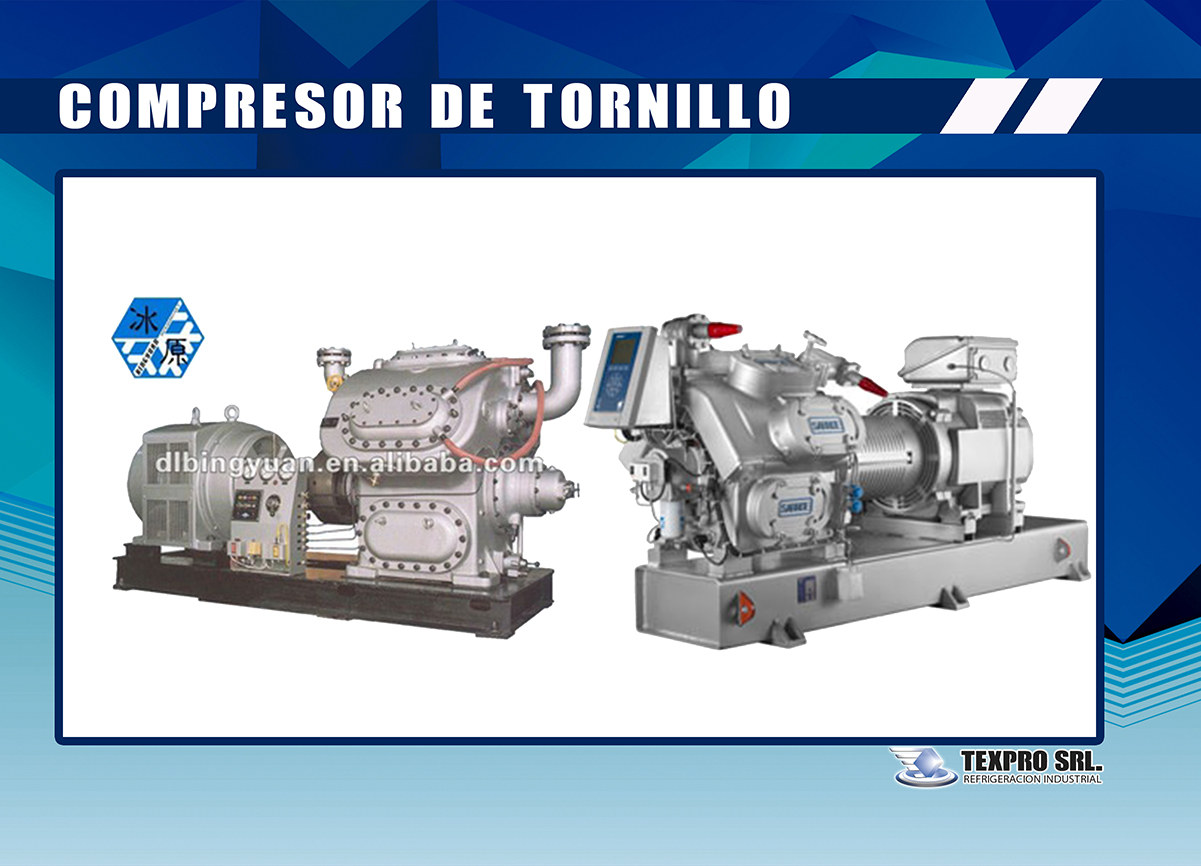
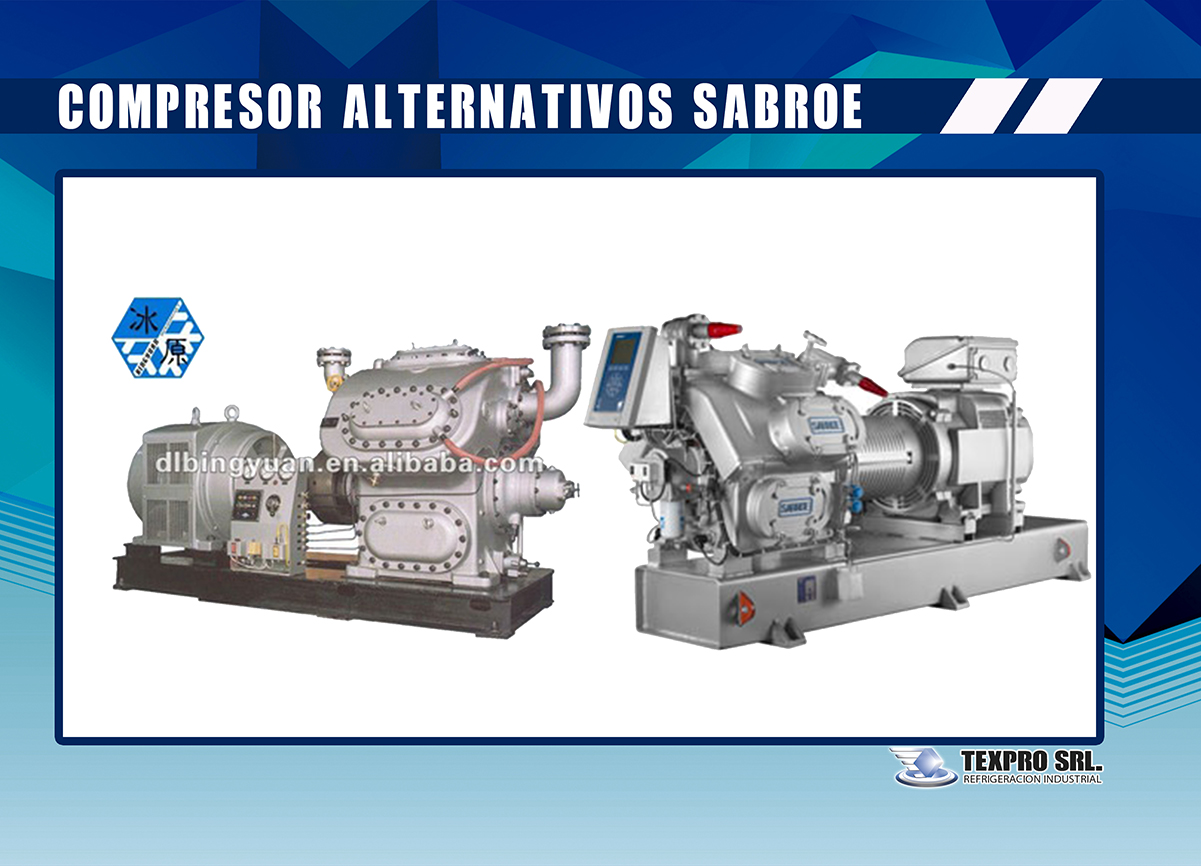
correccion de nombre

Changed region(s): [[0.0308, 0.0935, 0.7394, 0.1559]]

diff --git a/mobile/javascript/config.js b/mobile/javascript/config.js
@@ -136,7 +136,7 @@ btnTableOfContent:["btnBookMark"]
 };
 	
 	
-	;bookConfig.BookTemplateName="metro";bookConfig.loadingCaptionColor="#DDDDDD";bookConfig.loadingBackground="#1F2232";bookConfig.appLogoIcon="files/mobile-ext/appLogoIcon.png";bookConfig.appLogoOpenWindow="Blank";bookConfig.logoHeight="40";bookConfig.logoPadding="0";bookConfig.logoTop="0";bookConfig.toolbarColor="#000000";bookConfig.iconColor="#ECF5FB";bookConfig.pageNumColor="#000000";bookConfig.iconFontColor="#C6C6C6";bookConfig.toolbarAlwaysShow="No";bookConfig.formFontColor="#FFFFFF";bookConfig.formBackgroundColor="#27181A";bookConfig.ToolBarAlpha="1";bookConfig.CurlingPageCorner="Yes";bookConfig.showBookInstructionOnStart="false";bookConfig.InstructionsButtonVisible="Show";bookConfig.showInstructionOnStart="No";bookConfig.showGotoButtonsAtFirst="No";bookConfig.QRCode="Hide";bookConfig.HomeButtonVisible="Hide";bookConfig.HomeURL="%first page%";bookConfig.aboutButtonVisible="Hide";bookConfig.enablePageBack="Show";bookConfig.ShareButtonVisible="Show";shareObj = [];bookConfig.addCurrentPage="No";bookConfig.EmailButtonVisible="Show";bookConfig.btnShareWithEmailBody="{link}";bookConfig.ThumbnailsButtonVisible="Show";bookConfig.thumbnailColor="#333333";bookConfig.thumbnailAlpha="70";bookConfig.BookMarkButtonVisible="Hide";bookConfig.TableOfContentButtonVisible="Show";bookConfig.isHideTabelOfContentNodes="yes";bookConfig.SearchButtonVisible="Hide";bookConfig.leastSearchChar="3";bookConfig.searchKeywordFontColor="#FFB000";bookConfig.searchHightlightColor="#ffff00";bookConfig.SelectTextButtonVisible="Hide";bookConfig.PrintButtonVisible="Hide";bookConfig.BackgroundSoundButtonVisible="Show";bookConfig.FlipSound="Yes";bookConfig.BackgroundSoundLoop="-1";bookConfig.bgSoundVol="50";bookConfig.AutoPlayButtonVisible="Show";bookConfig.autoPlayAutoStart="No";bookConfig.autoPlayDuration="9";bookConfig.autoPlayLoopCount="1";bookConfig.ZoomButtonVisible="Show";bookConfig.maxZoomWidth="1400";bookConfig.defaultZoomWidth="700";bookConfig.mouseWheelFlip="Yes";bookConfig.ZoomMapVisible="Hide";bookConfig.DownloadButtonVisible="Hide";bookConfig.PhoneButtonVisible="Hide";bookConfig.AnnotationButtonVisible="Hide";bookConfig.FullscreenButtonVisible="Show";bookConfig.MagnifierButtonVisible="Hide";bookConfig.bgBeginColor="#E2E2E2";bookConfig.bgEndColor="#E2E2E2";bookConfig.bgMRotation="90";bookConfig.backGroundImgURL="files/mobile-ext/backGroundImgURL.jpg";bookConfig.backgroundPosition="stretch";bookConfig.backgroundOpacity="100";bookConfig.backgroundScene="None";bookConfig.LeftShadowWidth="90";bookConfig.LeftShadowAlpha="0.6";bookConfig.RightShadowWidth="55";bookConfig.RightShadowAlpha="0.6";bookConfig.ShowTopLeftShadow="Yes";bookConfig.pageHighlightType="magazine";bookConfig.HardPageEnable="No";bookConfig.hardCoverBorderWidth="8";bookConfig.borderColor="#572F0D";bookConfig.outerCoverBorder="Yes";bookConfig.cornerRound="8";bookConfig.leftMarginOnMobile="0";bookConfig.topMarginOnMobile="0";bookConfig.rightMarginOnMobile="0";bookConfig.bottomMarginOnMobile="0";bookConfig.pageBackgroundColor="#E8E8E8";bookConfig.flipshortcutbutton="Show";bookConfig.BindingType="side";bookConfig.RightToLeft="No";bookConfig.FlipDirection="0";bookConfig.flippingTime="0.6";bookConfig.retainBookCenter="Yes";bookConfig.FlipStyle="Flip";bookConfig.autoDoublePage="No";bookConfig.isTheBookOpen="No";bookConfig.DoubleSinglePageButtonVisible="hide";bookConfig.thicknessWidthType="Thinner";bookConfig.thicknessColor="#ffffff";bookConfig.SingleModeBanFlipToLastPage="No";bookConfig.showThicknessOnMobile="No";bookConfig.isSingleBookFullWindowOnMobile="no";bookConfig.isStopMouseMenu="yes";bookConfig.restorePageVisible="No";bookConfig.topMargin="10";bookConfig.bottomMargin="10";bookConfig.leftMargin="10";bookConfig.rightMargin="10";bookConfig.hideMiniFullscreen="no";bookConfig.maxWidthToSmallMode="400";bookConfig.maxHeightToSmallMode="300";bookConfig.leftRightPnlShowOption="None";bookConfig.highDefinitionConversion="yes";bookConfig.LargeLogoPosition="top-left";bookConfig.LargeLogoTarget="Blank";bookConfig.isFixLogoSize="No";bookConfig.logoFixWidth="0";bookConfig.logoFixHeight="0";bookConfig.SupportOperatePageZoom="Yes";bookConfig.showHelpContentAtFirst="No";bookConfig.updateURLForPage="No";bookConfig.passwordTips="Please contact the <a href=\'mailto:author@sample.com\'><u>author</u></a> to access the web";bookConfig.OpenWindow="Blank";bookConfig.showLinkHint="No";bookConfig.MidBgColor="#388243";bookConfig.useTheAliCloudChart ="no";bookConfig.totalPageCount=22;bookConfig.largePageWidth=1800;bookConfig.largePageHeight=1298;;bookConfig.securityType="1";bookConfig.CreatedTime ="201012222858";bookConfig.bookTitle="";bookConfig.bookmarkCR="61463867d8c59b8458f88b7f420af45acf82ec2e";bookConfig.productName="Flip PDF Professional";bookConfig.homePage="http://www.flipbuilder.com";bookConfig.searchPositionJS="mobile/javascript/text_position[1].js";bookConfig.searchTextJS="mobile/javascript/search_config.js";bookConfig.normalPath="files/mobile/";bookConfig.largePath="files/mobile/";bookConfig.thumbPath="files/thumb/";bookConfig.userListPath="files/extfiles/users.js";bookConfig.UIBaseURL='mobile/';var language = [];;function orgt(s){ return binl2hex(core_hx(str2binl(s), s.length * chrsz));};; var pages_information =[];	
+	;bookConfig.BookTemplateName="metro";bookConfig.loadingCaptionColor="#DDDDDD";bookConfig.loadingBackground="#1F2232";bookConfig.appLogoIcon="files/mobile-ext/appLogoIcon.png";bookConfig.appLogoOpenWindow="Blank";bookConfig.logoHeight="40";bookConfig.logoPadding="0";bookConfig.logoTop="0";bookConfig.toolbarColor="#000000";bookConfig.iconColor="#ECF5FB";bookConfig.pageNumColor="#000000";bookConfig.iconFontColor="#C6C6C6";bookConfig.toolbarAlwaysShow="No";bookConfig.formFontColor="#FFFFFF";bookConfig.formBackgroundColor="#27181A";bookConfig.ToolBarAlpha="1";bookConfig.CurlingPageCorner="Yes";bookConfig.showBookInstructionOnStart="false";bookConfig.InstructionsButtonVisible="Show";bookConfig.showInstructionOnStart="No";bookConfig.showGotoButtonsAtFirst="No";bookConfig.QRCode="Hide";bookConfig.HomeButtonVisible="Hide";bookConfig.HomeURL="%first page%";bookConfig.aboutButtonVisible="Hide";bookConfig.enablePageBack="Show";bookConfig.ShareButtonVisible="Show";shareObj = [];bookConfig.addCurrentPage="No";bookConfig.EmailButtonVisible="Show";bookConfig.btnShareWithEmailBody="{link}";bookConfig.ThumbnailsButtonVisible="Show";bookConfig.thumbnailColor="#333333";bookConfig.thumbnailAlpha="70";bookConfig.BookMarkButtonVisible="Hide";bookConfig.TableOfContentButtonVisible="Show";bookConfig.isHideTabelOfContentNodes="yes";bookConfig.SearchButtonVisible="Hide";bookConfig.leastSearchChar="3";bookConfig.searchKeywordFontColor="#FFB000";bookConfig.searchHightlightColor="#ffff00";bookConfig.SelectTextButtonVisible="Hide";bookConfig.PrintButtonVisible="Hide";bookConfig.BackgroundSoundButtonVisible="Show";bookConfig.FlipSound="Yes";bookConfig.BackgroundSoundLoop="-1";bookConfig.bgSoundVol="50";bookConfig.AutoPlayButtonVisible="Show";bookConfig.autoPlayAutoStart="No";bookConfig.autoPlayDuration="9";bookConfig.autoPlayLoopCount="1";bookConfig.ZoomButtonVisible="Show";bookConfig.maxZoomWidth="1400";bookConfig.defaultZoomWidth="700";bookConfig.mouseWheelFlip="Yes";bookConfig.ZoomMapVisible="Hide";bookConfig.DownloadButtonVisible="Hide";bookConfig.PhoneButtonVisible="Hide";bookConfig.AnnotationButtonVisible="Hide";bookConfig.FullscreenButtonVisible="Show";bookConfig.MagnifierButtonVisible="Hide";bookConfig.bgBeginColor="#E2E2E2";bookConfig.bgEndColor="#E2E2E2";bookConfig.bgMRotation="90";bookConfig.backGroundImgURL="files/mobile-ext/backGroundImgURL.jpg";bookConfig.backgroundPosition="stretch";bookConfig.backgroundOpacity="100";bookConfig.backgroundScene="None";bookConfig.LeftShadowWidth="90";bookConfig.LeftShadowAlpha="0.6";bookConfig.RightShadowWidth="55";bookConfig.RightShadowAlpha="0.6";bookConfig.ShowTopLeftShadow="Yes";bookConfig.pageHighlightType="magazine";bookConfig.HardPageEnable="No";bookConfig.hardCoverBorderWidth="8";bookConfig.borderColor="#572F0D";bookConfig.outerCoverBorder="Yes";bookConfig.cornerRound="8";bookConfig.leftMarginOnMobile="0";bookConfig.topMarginOnMobile="0";bookConfig.rightMarginOnMobile="0";bookConfig.bottomMarginOnMobile="0";bookConfig.pageBackgroundColor="#E8E8E8";bookConfig.flipshortcutbutton="Show";bookConfig.BindingType="side";bookConfig.RightToLeft="No";bookConfig.FlipDirection="0";bookConfig.flippingTime="0.6";bookConfig.retainBookCenter="Yes";bookConfig.FlipStyle="Flip";bookConfig.autoDoublePage="No";bookConfig.isTheBookOpen="No";bookConfig.DoubleSinglePageButtonVisible="hide";bookConfig.thicknessWidthType="Thinner";bookConfig.thicknessColor="#ffffff";bookConfig.SingleModeBanFlipToLastPage="No";bookConfig.showThicknessOnMobile="No";bookConfig.isSingleBookFullWindowOnMobile="no";bookConfig.isStopMouseMenu="yes";bookConfig.restorePageVisible="No";bookConfig.topMargin="10";bookConfig.bottomMargin="10";bookConfig.leftMargin="10";bookConfig.rightMargin="10";bookConfig.hideMiniFullscreen="no";bookConfig.maxWidthToSmallMode="400";bookConfig.maxHeightToSmallMode="300";bookConfig.leftRightPnlShowOption="None";bookConfig.highDefinitionConversion="yes";bookConfig.LargeLogoPosition="top-left";bookConfig.LargeLogoTarget="Blank";bookConfig.isFixLogoSize="No";bookConfig.logoFixWidth="0";bookConfig.logoFixHeight="0";bookConfig.SupportOperatePageZoom="Yes";bookConfig.showHelpContentAtFirst="No";bookConfig.updateURLForPage="No";bookConfig.passwordTips="Please contact the <a href=\'mailto:author@sample.com\'><u>author</u></a> to access the web";bookConfig.OpenWindow="Blank";bookConfig.showLinkHint="No";bookConfig.MidBgColor="#979263";bookConfig.useTheAliCloudChart ="no";bookConfig.totalPageCount=22;bookConfig.largePageWidth=1800;bookConfig.largePageHeight=1298;;bookConfig.securityType="1";bookConfig.CreatedTime ="201019223849";bookConfig.bookTitle="";bookConfig.bookmarkCR="a539118a56ba2653ee0cf54a3bae94ca52698693";bookConfig.productName="Flip PDF Professional";bookConfig.homePage="http://www.flipbuilder.com";bookConfig.searchPositionJS="mobile/javascript/text_position[1].js";bookConfig.searchTextJS="mobile/javascript/search_config.js";bookConfig.normalPath="files/mobile/";bookConfig.largePath="files/mobile/";bookConfig.thumbPath="files/thumb/";bookConfig.userListPath="files/extfiles/users.js";bookConfig.UIBaseURL='mobile/';var language = [];;function orgt(s){ return binl2hex(core_hx(str2binl(s), s.length * chrsz));};; var pages_information =[];	
 	if(language&&language.length>0&&language[0]&&language[0].language){
 		bookConfig.language=language[0].language;
 	}
